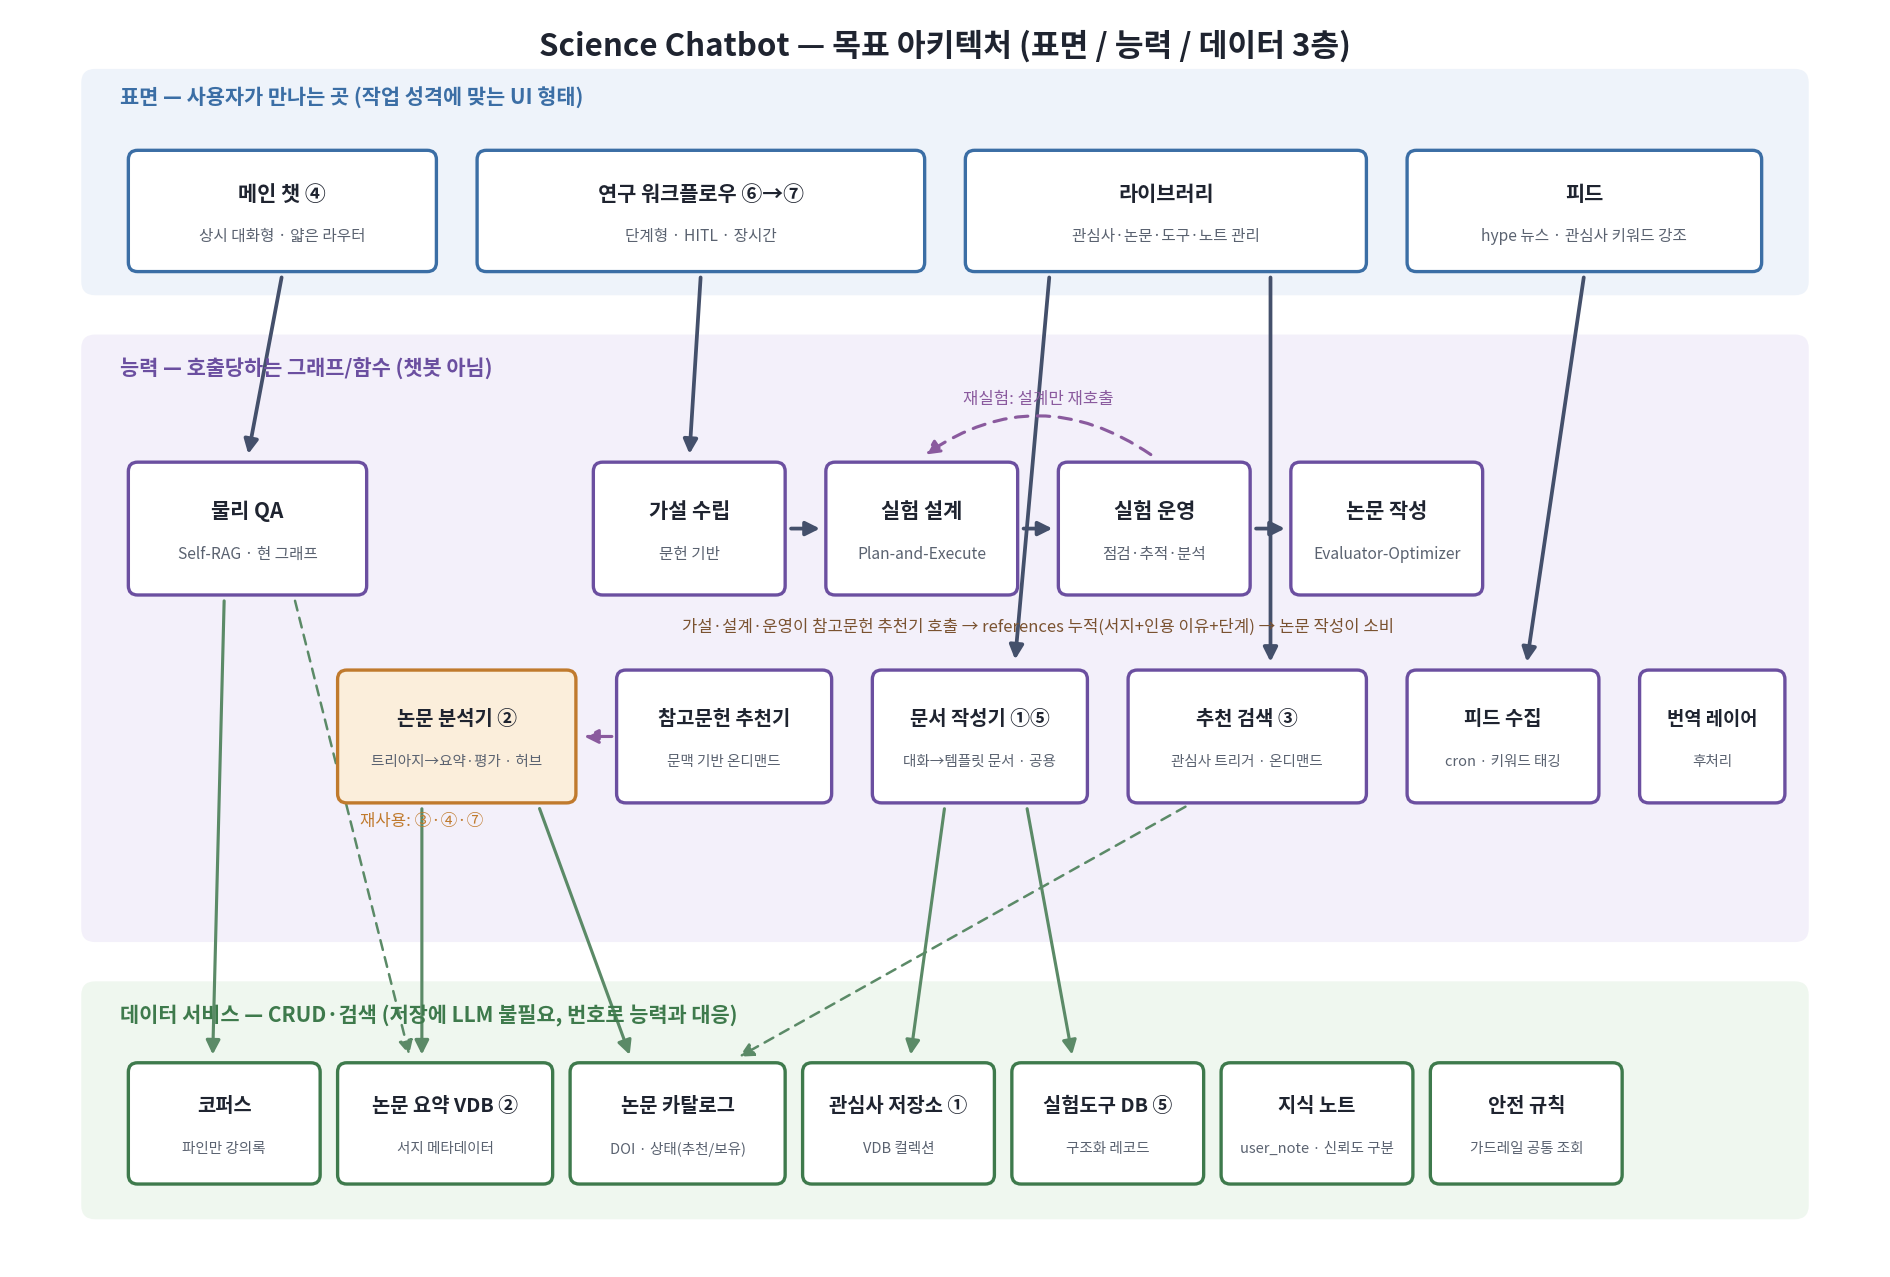
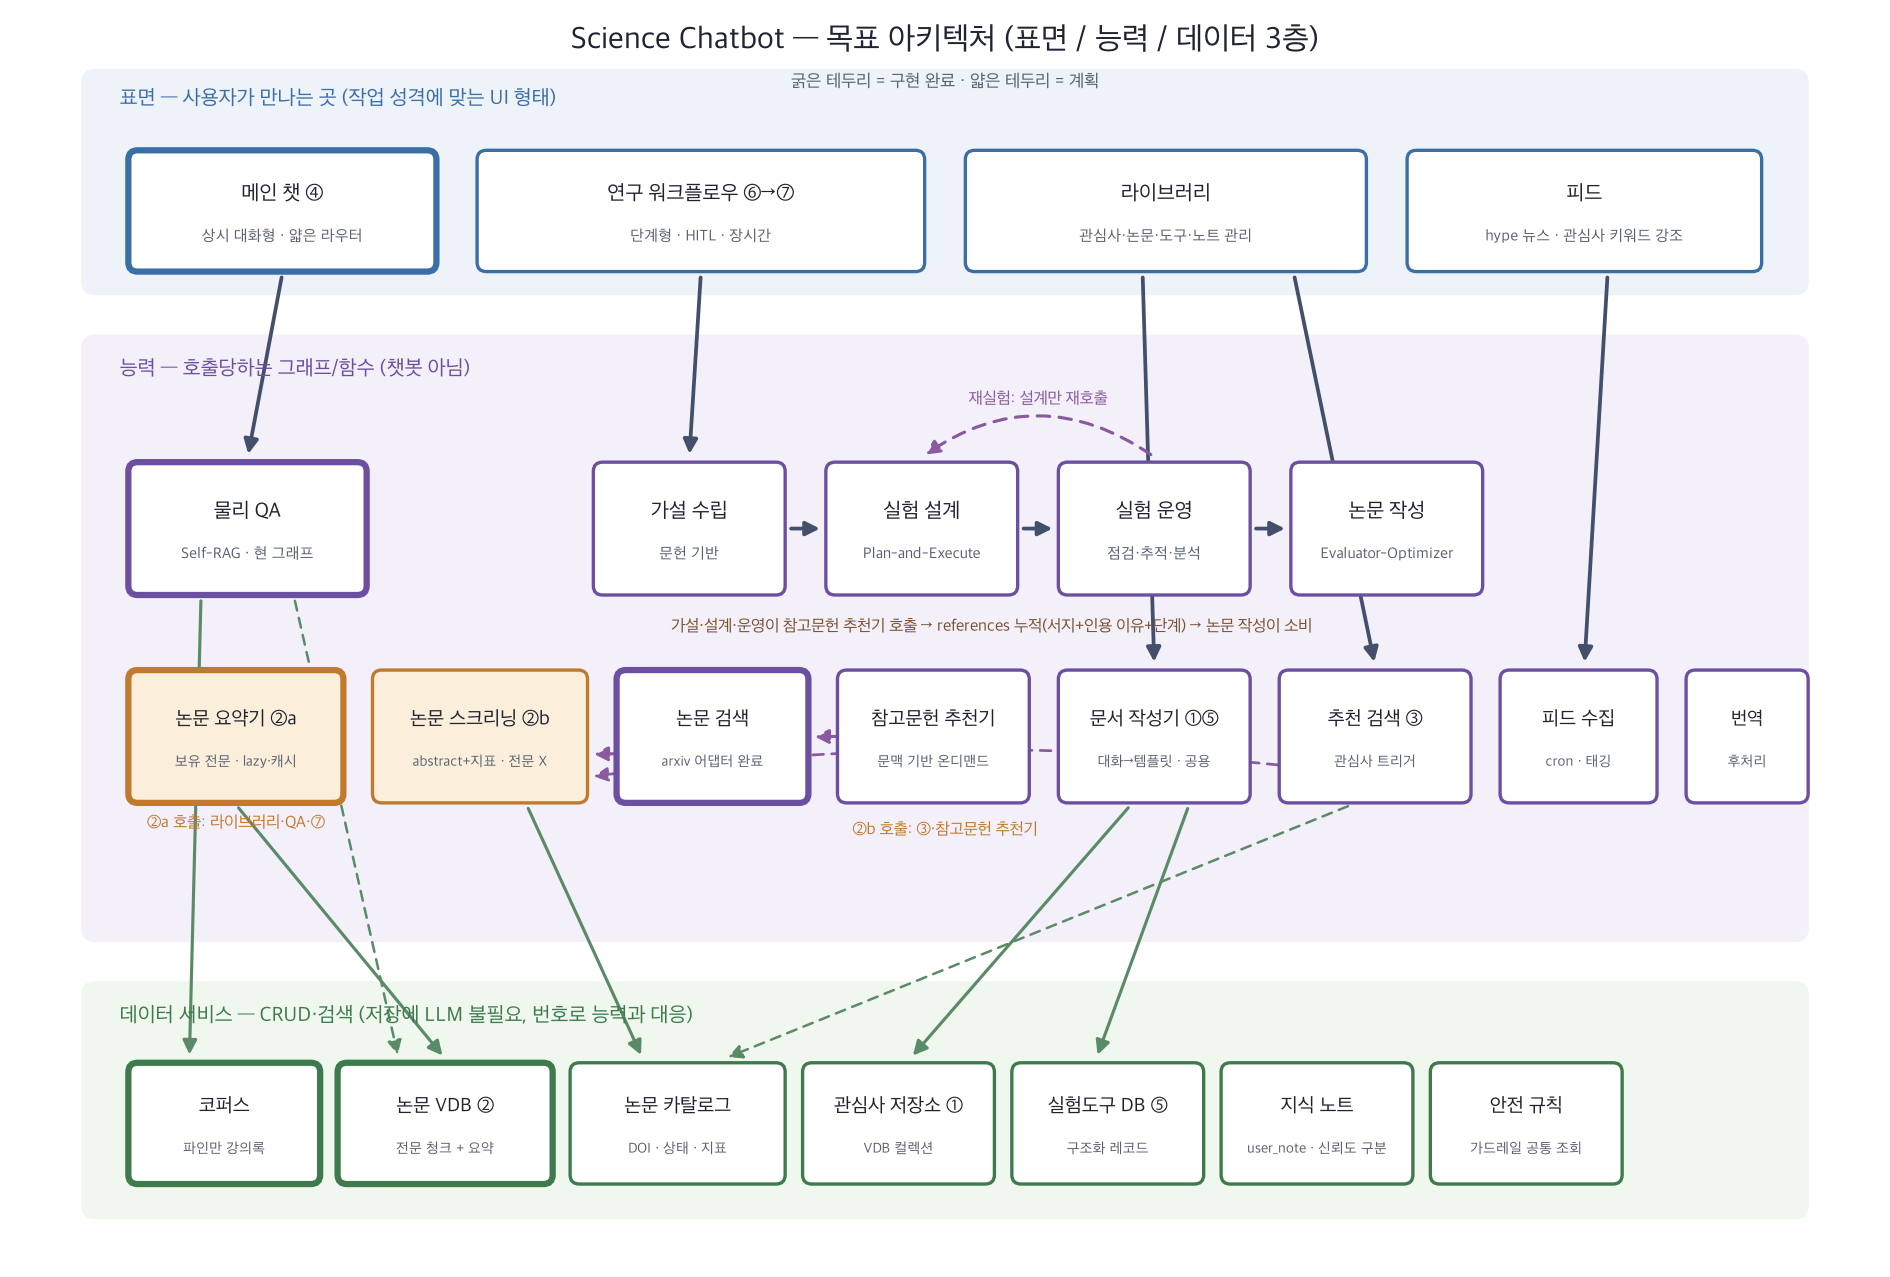
Refactor code structure for improved readability and maintainability

diff --git a/docs/draw_architecture.py b/docs/draw_architecture.py
@@ -48,10 +48,14 @@ def band(x, y, w, h, fc):
                                 fc=fc, ec="none", zorder=1))
 
 
-def box(x0, x1, y0, y1, title, sub=None, ec=C_CAP_EDGE, fc="white", ts=10, ss=7.5):
+def box(x0, x1, y0, y1, title, sub=None, ec=C_CAP_EDGE, fc="white", ts=10, ss=7.5,
+        done=False):
+    # done=True면 테두리를 굵게 — "이미 구현된 것"과 "계획"을 한눈에 구분하기 위한 표시.
+    # 색을 따로 쓰지 않는 이유: 층(표면/능력/데이터)을 이미 색으로 구분하고 있어서
+    # 색을 하나 더 얹으면 두 축이 섞여 읽기 어려워진다.
     ax.add_patch(FancyBboxPatch((x0, y0), x1 - x0, y1 - y0,
                                 boxstyle="round,pad=0.25,rounding_size=0.8",
-                                fc=fc, ec=ec, lw=1.6, zorder=3))
+                                fc=fc, ec=ec, lw=3.0 if done else 1.6, zorder=3))
     cx, cy = (x0 + x1) / 2, (y0 + y1) / 2
     if sub:
         ax.text(cx, cy + 1.5, title, ha="center", va="center", fontsize=ts,
@@ -70,8 +74,10 @@ def arrow(p0, p1, color="#44506B", lw=1.8, rad=0.0, ls="solid"):
 
 
 # ── 제목
-ax.text(80, 105.3, "Science Chatbot — 목표 아키텍처 (표면 / 능력 / 데이터 3층)",
+ax.text(80, 105.8, "Science Chatbot — 목표 아키텍처 (표면 / 능력 / 데이터 3층)",
         ha="center", va="center", fontsize=15, fontproperties=F_BOLD, color=C_TEXT)
+ax.text(80, 102.2, "굵은 테두리 = 구현 완료 · 얇은 테두리 = 계획",
+        ha="center", va="center", fontsize=8.5, fontproperties=F_REG, color=C_SUB)
 
 # ── 밴드
 band(6, 84, 148, 19, C_SURF_BAND)
@@ -85,13 +91,13 @@ ax.text(9, 20.8, "데이터 서비스 — CRUD·검색 (저장에 LLM 불필요,
         fontsize=10, fontproperties=F_BOLD, color=C_DATA_EDGE)
 
 # ── 표면 (y 86–96)
-box(10, 36, 86, 96, "메인 챗 ④", "상시 대화형 · 얇은 라우터", ec=C_SURF_EDGE)
+box(10, 36, 86, 96, "메인 챗 ④", "상시 대화형 · 얇은 라우터", ec=C_SURF_EDGE, done=True)
 box(40, 78, 86, 96, "연구 워크플로우 ⑥→⑦", "단계형 · HITL · 장시간", ec=C_SURF_EDGE)
 box(82, 116, 86, 96, "라이브러리", "관심사·논문·도구·노트 관리", ec=C_SURF_EDGE)
 box(120, 150, 86, 96, "피드", "hype 뉴스 · 관심사 키워드 강조", ec=C_SURF_EDGE)
 
 # ── 능력 Row A — 워크플로우 체인 + QA (y 58–69)
-box(10, 30, 58, 69, "물리 QA", "Self-RAG · 현 그래프")
+box(10, 30, 58, 69, "물리 QA", "Self-RAG · 현 그래프", done=True)
 box(50, 66, 58, 69, "가설 수립", "문헌 기반")
 box(70, 86, 58, 69, "실험 설계", "Plan-and-Execute")
 box(90, 106, 58, 69, "실험 운영", "점검·추적·분석")
@@ -99,10 +105,10 @@ box(110, 126, 58, 69, "논문 작성", "Evaluator-Optimizer")
 
 # ── 능력 Row B — 논문 3분할 + 공용 (y 40–51)
 box(10, 28, 40, 51, "논문 요약기 ②a", "보유 전문 · lazy·캐시",
-    ec=C_HUB_EDGE, fc=C_HUB, ts=9.5, ss=7)
+    ec=C_HUB_EDGE, fc=C_HUB, ts=9.5, ss=7, done=True)
 box(31, 49, 40, 51, "논문 스크리닝 ②b", "abstract+지표 · 전문 X",
     ec=C_HUB_EDGE, fc=C_HUB, ts=9.5, ss=7)
-box(52, 68, 40, 51, "논문 검색", "어댑터 · arxiv→API", ts=9.5, ss=7)
+box(52, 68, 40, 51, "논문 검색", "arxiv 어댑터 완료", ts=9.5, ss=7, done=True)
 box(71, 87, 40, 51, "참고문헌 추천기", "문맥 기반 온디맨드", ts=9.5, ss=7)
 box(90, 106, 40, 51, "문서 작성기 ①⑤", "대화→템플릿 · 공용", ts=9.5, ss=7)
 box(109, 125, 40, 51, "추천 검색 ③", "관심사 트리거", ts=9.5, ss=7)
@@ -110,8 +116,8 @@ box(128, 141, 40, 51, "피드 수집", "cron · 태깅", ts=9.5, ss=7)
 box(144, 154, 40, 51, "번역", "후처리", ts=9, ss=7)
 
 # ── 데이터 (y 7–17)
-box(10, 26, 7, 17, "코퍼스", "파인만 강의록", ec=C_DATA_EDGE, ts=9.5, ss=7)
-box(28, 46, 7, 17, "논문 VDB ②", "전문 청크 + 요약", ec=C_DATA_EDGE, ts=9.5, ss=7)
+box(10, 26, 7, 17, "코퍼스", "파인만 강의록", ec=C_DATA_EDGE, ts=9.5, ss=7, done=True)
+box(28, 46, 7, 17, "논문 VDB ②", "전문 청크 + 요약", ec=C_DATA_EDGE, ts=9.5, ss=7, done=True)
 box(48, 66, 7, 17, "논문 카탈로그", "DOI · 상태 · 지표", ec=C_DATA_EDGE, ts=9.5, ss=7)
 box(68, 84, 7, 17, "관심사 저장소 ①", "VDB 컬렉션", ec=C_DATA_EDGE, ts=9.5, ss=7)
 box(86, 102, 7, 17, "실험도구 DB ⑤", "구조화 레코드", ec=C_DATA_EDGE, ts=9.5, ss=7)

diff --git a/docs/RoadMap.md b/docs/RoadMap.md
@@ -49,6 +49,8 @@
 | 07-28 | retrieve() 점수 병합 + 논문당 청크 상한 | 이전엔 feynman·papers 컬렉션에서 각각 k개씩 가져와 이어붙여 논문 등록 이후 항상 최대 2k개가 context에 들어가던 버그 수정 — `similarity_search_with_score`로 두 컬렉션 후보를 점수(L2, 작을수록 유사) 기준 병합 후 상위 k개만 채택(top_k는 "컬렉션당"이 아니라 "총량"이라는 원래 의도 회복). 점수 병합만 하면 요약+전문청크 중복·`chunk_overlap`·반복 주장 등 3중 원인으로 논문 한 편이 k슬롯을 전부 차지할 수 있어 `MAX_CHUNKS_PER_PAPER=2` 상한을 추가(그리디 백필 — 상한에 걸려 빠진 자리는 다음 순위 후보가 채움, 빈 슬롯을 남기지 않음). "파인만 최소 1개 보장" 같은 컬렉션 쿼터는 의도적으로 안 둠 — 07-15에 발견한 근접-오검색을 반대 방향으로 재현하는 것이라 |
 | 07-28 | References 판정 — 라벨과 분류 분리 | `paper_chunking.py`가 청크의 대표 헤더 라벨(표시용, 가장 깊은 헤더 하나만 기록)과 `is_references` 분류(References 섹션 소속 여부)를 같은 값에서 파생시키던 걸 분리 — "# References" 아래 "## Appendix A" 같은 하위 헤더가 있으면 대표 라벨이 "Appendix A"가 돼 정규식이 매치하지 않아 `is_references=False`로 잘못 분류되던 잠재 버그(코드 리딩 질문 중 발견) 수정. 분류는 헤더 계층 전체(`any(...)`)로 판정하고, 표시용 라벨은 기존대로 가장 깊은 헤더만 유지 — 대표성(라벨)과 소속 판정(분류)은 다른 요구라 하나의 값을 공유하면 안 됨 |
 
+| 07-28 | 아키텍처 그림 갱신 + 이미지에 dev 의존성이 새던 것 수정 | `docs/draw_architecture.py`에 논문 처리 3분할(②a 요약기/②b 스크리닝/논문 검색 어댑터)을 반영하고, 굵은 테두리로 "구현 완료"를 표시하도록 추가(색은 이미 층 구분에 쓰고 있어 선 굵기로 축을 분리). 겸사겸사 발견 — `pyproject.toml`에 "배포용은 `--no-dev`" 주석을 달아뒀는데 정작 **Dockerfile의 `uv sync` 두 곳에 `--no-dev`가 빠져 있어 pytest가(그리고 이번에 추가한 matplotlib·pillow·fonttools까지) 운영 이미지에 계속 들어가고 있었음.** 두 줄에 `--no-dev` 추가 — CI는 러너에서 직접 `uv sync`+pytest를 돌리므로 테스트 게이트는 그대로 |
+
 ## 🔄 진행 중
 
 | 날짜 | 항목 | 상태 |
